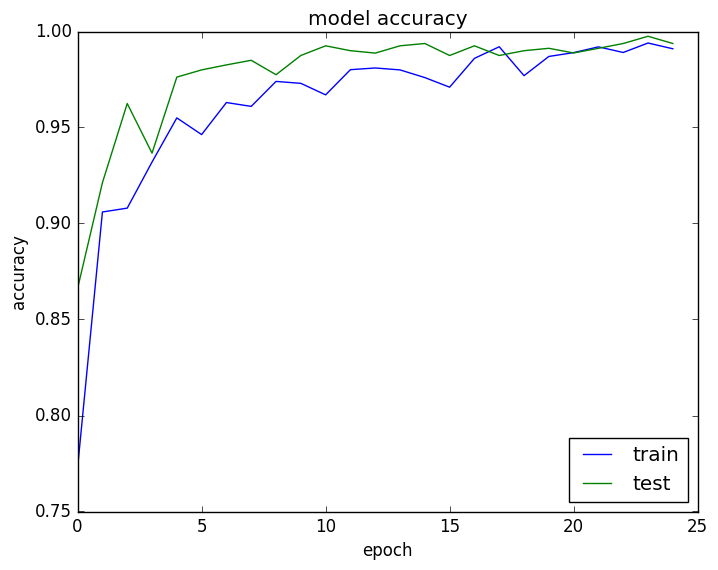
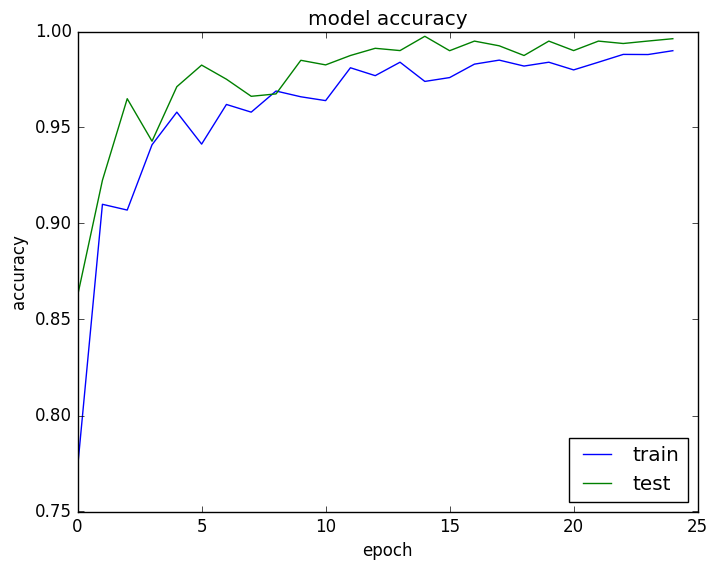
testing

diff --git a/Code/main_Augmented_4HL_2FC.py b/Code/main_Augmented_4HL_2FC.py
@@ -13,8 +13,7 @@ from keras.regularizers import l2, activity_l2
 from keras.optimizers import Nadam
 from keras.layers.noise import GaussianNoise
 from keras.preprocessing.image import ImageDataGenerator, array_to_img, img_to_array, load_img
-# from IPython.display import SVG
-# from keras.utils.visualize_util import model_to_dot
+from keras.utils.visualize_util import plot
 
 import csv
 import os
@@ -84,7 +83,7 @@ test_datagen = ImageDataGenerator(
 train_generator = train_datagen.flow_from_directory(
 	'../Dataset/train',  # this is the target directory
 	target_size=(320, 180),
-	batch_size=10,
+	batch_size=50,
 	shuffle = True,
 	class_mode='categorical')  
 
@@ -94,7 +93,7 @@ print "training data read"
 validation_generator = validation_datagen.flow_from_directory(
 	'../Dataset/validation',
 	target_size=(320, 180),
-	batch_size=10,
+	batch_size=50,
 	shuffle = True,
 	class_mode='categorical')
 
@@ -104,7 +103,7 @@ print "validation data read"
 test_generator = test_datagen.flow_from_directory(
 	'../Dataset/test',
 	target_size=(320, 180),
-	batch_size=10,
+	batch_size=50,
 	shuffle = True,
 	class_mode='categorical')
 
@@ -157,20 +156,16 @@ model = baseline_model()
 print "model built"
 print model.summary()
 
-# SVG(model_to_dot(model).create(prog='dot', format='svg'))
-
-# folder  = "Images/Model/"
-# ensure_dir(folder)
-# graph = to_graph(model, show_shape=True)
-# graph.write_png('1-4HL-2FCmodel.png')
-# plot(model, to_file='1-4HL-2FCmodel.png')
+folder  = "Images/Model/"
+ensure_dir(folder)
+plot(model, to_file='2-4HL-2FCmodel.png')
 
 i=1000 #samples_per_epoch
 j=800 #nb_val_samples
 
 folder  = "Weights/Best/main/"
 ensure_dir(folder)
-filepath= folder + "1-4HL-2FC_weights.best.hdf5"
+filepath= folder + "2-4HL-2FC_weights.best.hdf5"
 checkpoint = ModelCheckpoint(filepath, monitor='val_acc', verbose=1, save_best_only=True, mode='max')
 callbacks_list = [checkpoint]
 
@@ -179,7 +174,7 @@ print 'fitting model'
 history = model.fit_generator(
 	train_generator,
 	samples_per_epoch=i,
-	nb_epoch=16,
+	nb_epoch=15,
 	validation_data=validation_generator,
 	nb_val_samples=j,
 	verbose = 2,
@@ -209,7 +204,7 @@ plt.title('model accuracy')
 plt.ylabel('accuracy')
 plt.xlabel('epoch')
 plt.legend(['train', 'test'], loc='lower right')
-fileName = "1-4HL-2FC_accuracy_val.png"
+fileName = "2-4HL-2FC_accuracy_val.png"
 plt.savefig(folder + fileName, bbox_inches='tight')
 plt.close(fig)
 
@@ -221,13 +216,13 @@ plt.title('model loss')
 plt.ylabel('loss')
 plt.xlabel('epoch')
 plt.legend(['train', 'test'], loc='lower right')
-fileName = "1-4HL-2FC_loss.png"
+fileName = "2-4HL-2FC_loss.png"
 plt.savefig(folder + fileName, bbox_inches='tight')
 plt.close(fig)
 
 folder  = "Files/"
 ensure_dir(folder)
-with open(folder +"1-Output_4HL-2FC.txt", "wb") as text_file:
+with open(folder +"2-Output_4HL-2FC.txt", "wb") as text_file:
 	text_file.write("Using Opt=Nadam, lr =  %.8f, decay =  %.8f, reg =  %.2f\n  Validation Error: %.2f%%, Test Error: %.2f%%, for nb_val_samples=%d samples_per_epoch=%d" %(learn_r,dec,reg,100-vscores[1]*100,100-tscores[1]*100,j,i))
 
 

diff --git a/Code/main_Aug_4HL_2FC.py b/Code/main_Aug_4HL_2FC.py
@@ -13,6 +13,7 @@ from keras.regularizers import l2, activity_l2
 from keras.optimizers import Nadam
 from keras.layers.noise import GaussianNoise
 from keras.preprocessing.image import ImageDataGenerator, array_to_img, img_to_array, load_img
+from keras.utils.visualize_util import plot
 
 import csv
 import os
@@ -155,12 +156,16 @@ model = baseline_model()
 print "model built"
 print model.summary()
 
+folder  = "Images/Model/Aug/"
+ensure_dir(folder)
+plot(model, to_file='2-4HL-2FC_Aug_model.png')
+
 i=1000 #samples_per_epoch
 j=800 #nb_val_samples
 
-folder  = "Weights/Best/main/"
+folder  = "Weights/Best/Aug/"
 ensure_dir(folder)
-filepath= folder + "2-4HL-2FC_weights.best.hdf5"
+filepath= folder + "2-4HL-2FC_Aug_weights.best.hdf5"
 checkpoint = ModelCheckpoint(filepath, monitor='val_acc', verbose=1, save_best_only=True, mode='max')
 callbacks_list = [checkpoint]
 
@@ -169,7 +174,7 @@ print 'fitting model'
 history = model.fit_generator(
 	train_generator,
 	samples_per_epoch=i,
-	nb_epoch=25,
+	nb_epoch=15,
 	validation_data=validation_generator,
 	nb_val_samples=j,
 	verbose = 2,
@@ -188,7 +193,7 @@ tscores = model.evaluate_generator(test_generator,
 print("Test Error: %.2f%%, for nb_val_samples=%d samples_per_epoch=%d" % (100-tscores[1]*100,j,i))
 
 
-folder  = "Images/main/"
+folder  = "Images/Aug/"
 ensure_dir(folder)
 
 # summarize history for accuracy
@@ -199,7 +204,7 @@ plt.title('model accuracy')
 plt.ylabel('accuracy')
 plt.xlabel('epoch')
 plt.legend(['train', 'test'], loc='lower right')
-fileName = "2-4HL-2FC_accuracy_val.png"
+fileName = "2-4HL-2FC_Aug_accuracy_val.png"
 plt.savefig(folder + fileName, bbox_inches='tight')
 plt.close(fig)
 
@@ -211,13 +216,13 @@ plt.title('model loss')
 plt.ylabel('loss')
 plt.xlabel('epoch')
 plt.legend(['train', 'test'], loc='lower right')
-fileName = "2-4HL-2FC_loss.png"
+fileName = "2-4HL-2FC_Aug_loss.png"
 plt.savefig(folder + fileName, bbox_inches='tight')
 plt.close(fig)
 
 folder  = "Files/"
 ensure_dir(folder)
-with open(folder +"2-Output_4HL-2FC.txt", "wb") as text_file:
+with open(folder +"2-Output_Aug_4HL-2FC.txt", "wb") as text_file:
 	text_file.write("Using Opt=Nadam, lr =  %.8f, decay =  %.8f, reg =  %.2f\n  Validation Error: %.2f%%, Test Error: %.2f%%, for nb_val_samples=%d samples_per_epoch=%d" %(learn_r,dec,reg,100-vscores[1]*100,100-tscores[1]*100,j,i))
 
 
